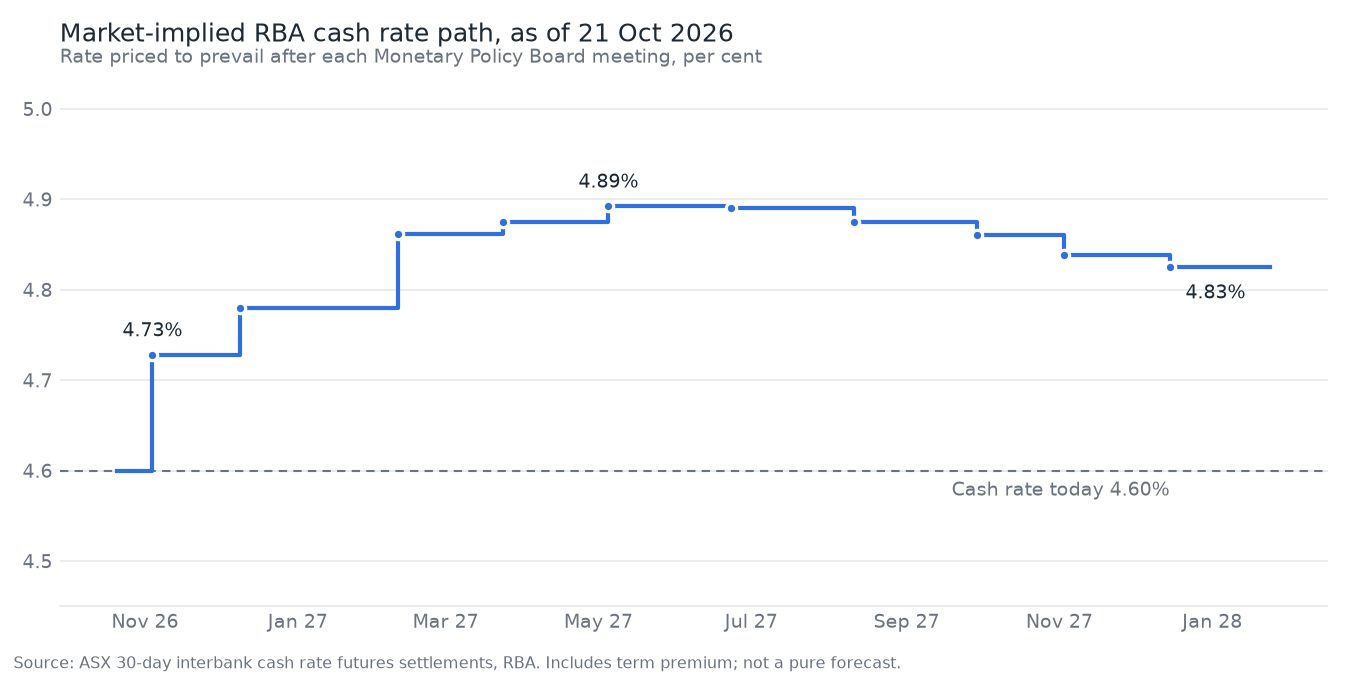
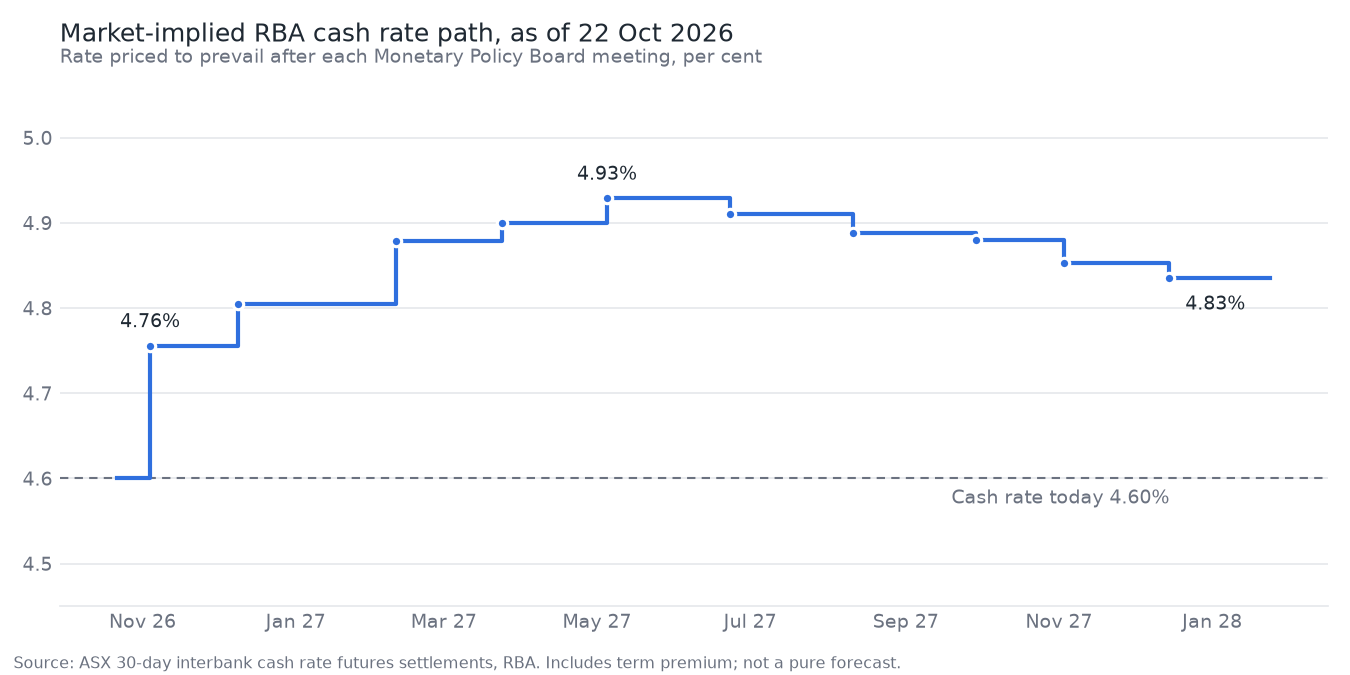
Daily snapshot 2026-10-23

diff --git a/LATEST.md b/LATEST.md
@@ -1,8 +1,8 @@
-# Latest: 21 October 2026
+# Latest: 22 October 2026
 
 _Regenerated by every daily update from ASX 24 settlements. Not investment advice._
 
-Cash rate **4.60%** | 3-year futures yield **4.92%** | 10-year **5.30%** | 3s10s **38bp**
+Cash rate **4.60%** | 3-year futures yield **4.92%** | 10-year **5.27%** | 3s10s **35bp**
 
 ![Implied path](output/implied_path_latest.png)
 
@@ -10,30 +10,30 @@ Cash rate **4.60%** | 3-year futures yield **4.92%** | 10-year **5.30%** | 3s10s
 
 | Meeting | Implied rate | Priced move (bp) | As share of 25bp | Cumulative (bp) |
 |---|---|---|---|---|
-| 03 Nov 2026 | 4.73% | +12.8 | +51% | +12.8 |
-| 08 Dec 2026 | 4.78% | +5.2 | +21% | +18.0 |
-| 09 Feb 2027 | 4.86% | +8.1 | +32% | +26.1 |
-| 23 Mar 2027 | 4.88% | +1.4 | +6% | +27.5 |
-| 04 May 2027 | 4.89% | +1.7 | +7% | +29.2 |
-| 22 Jun 2027 | 4.89% | -0.2 | -1% | +29.0 |
-| 10 Aug 2027 | 4.88% | -1.5 | -6% | +27.5 |
-| 28 Sep 2027 | 4.86% | -1.5 | -6% | +26.0 |
-| 02 Nov 2027 | 4.84% | -2.1 | -9% | +23.9 |
-| 14 Dec 2027 | 4.83% | -1.4 | -5% | +22.5 |
+| 03 Nov 2026 | 4.76% | +15.6 | +62% | +15.6 |
+| 08 Dec 2026 | 4.80% | +4.9 | +20% | +20.5 |
+| 09 Feb 2027 | 4.88% | +7.4 | +30% | +27.9 |
+| 23 Mar 2027 | 4.90% | +2.1 | +8% | +30.0 |
+| 04 May 2027 | 4.93% | +2.9 | +12% | +32.9 |
+| 22 Jun 2027 | 4.91% | -1.9 | -8% | +31.0 |
+| 10 Aug 2027 | 4.89% | -2.2 | -9% | +28.8 |
+| 28 Sep 2027 | 4.88% | -0.8 | -3% | +28.0 |
+| 02 Nov 2027 | 4.85% | -2.7 | -11% | +25.3 |
+| 14 Dec 2027 | 4.83% | -1.8 | -7% | +23.5 |
 
 ## Next meeting: model vs market
 
 | Outcome | Model | Model + nowcast | Market |
 |---|---|---|---|
 | cut | 7% | 12% | 0% |
-| hold | 78% | 80% | 49% |
-| hike | 14% | 8% | 51% |
+| hold | 78% | 80% | 38% |
+| hike | 14% | 8% | 62% |
 
 ## Open positions
 
 | trade_id | symbol | direction | contracts | entry_price | mark | move_bp | pnl | status |
 |---|---|---|---|---|---|---|---|---|
 | 1 | YTZ2026 | SHORT | 7 | 95.095 | 95.085 | 1.0 | 196.6 | open |
-| 2 | IBX2026 | LONG | 10 | 95.36 | 95.285 | -7.5 | -1849.32 | STOP HIT |
+| 2 | IBX2026 | LONG | 10 | 95.36 | 95.26 | -10.0 | -2465.75 | STOP HIT |
 
 Full trade and forecast record: [SCORECARD.md](SCORECARD.md)

diff --git a/SCORECARD.md b/SCORECARD.md
@@ -1,18 +1,18 @@
 # Scorecard
 
-_Paper portfolio, marked at ASX 24 settlements for 2026-10-21. Generated by `python -m rbaengine scorecard`; every trade is listed, including losers._
+_Paper portfolio, marked at ASX 24 settlements for 2026-10-22. Generated by `python -m rbaengine scorecard`; every trade is listed, including losers._
 
 - Closed trades: **0** (0 winners)
 - Realised P&L: **$+0**
-- Open trades: **2**, unrealised P&L **$-1,653**
+- Open trades: **2**, unrealised P&L **$-2,269**
 
 | # | Entered | Trade | Entry | Stop | Target | Exit | P&L | R | Status | Rationale |
 |---|---|---|---|---|---|---|---|---|---|---|
 | 1 | 2026-10-02 | SHORT 7 YTZ2026 | 95.095 | 95.345 | 94.845 | 95.085 (mark) | $+197 | +0.04 | open | Rule C: 12-month momentum, 3-year yield above its level a year ago. Half risk; one significant result out of nine rules tested. |
-| 2 | 2026-10-16 | LONG 10 IBX2026 | 95.36 | 95.29 | 95.4 | 95.285 (mark) | $-1,849 | -1.07 | STOP HIT | Discretionary: no hike on 3 Nov. 18% priced; unemployment up from 4.4% to 4.7% in three months and weak sentiment make a hike unlikely. Stop at about 50% priced; exit at the 3 Nov settlement. Half risk. |
+| 2 | 2026-10-16 | LONG 10 IBX2026 | 95.36 | 95.29 | 95.4 | 95.26 (mark) | $-2,466 | -1.43 | STOP HIT | Discretionary: no hike on 3 Nov. 18% priced; unemployment up from 4.4% to 4.7% in three months and weak sentiment make a hike unlikely. Stop at about 50% priced; exit at the 3 Nov settlement. Half risk. |
 
 ## Forecast record: model vs market
 
 Brier score of the last forecast logged before each RBA decision (0 is perfect, lower is better).
 
-No meetings scored yet. Daily forecasts logged so far: 15.
+No meetings scored yet. Daily forecasts logged so far: 16.
